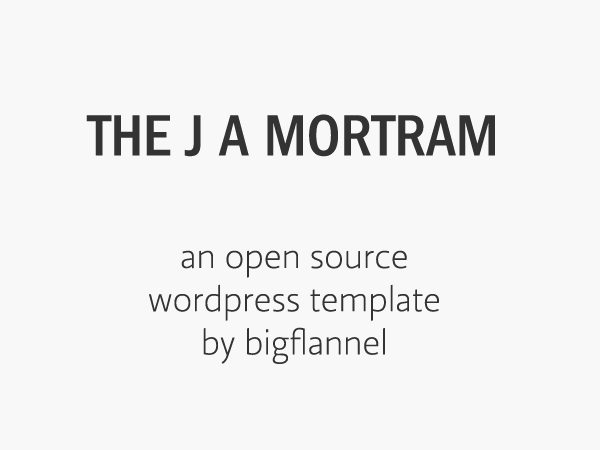
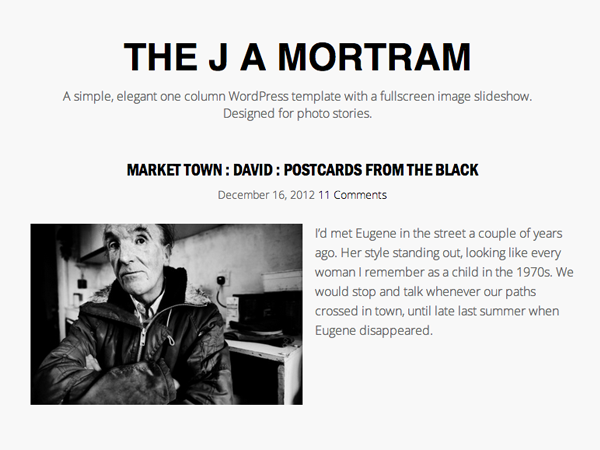
1.03
Added a link to the post date if there is no post title. Added this to
index.php, archive.php and search.php.
Excerpt text is now set in functions.php as 'This post is password
protected.'
Google Font CSS now enqueued in functions.php.
Categories now displayed on single post page.
Amended screenshot.png

Changed region(s): [[0.03, 0.4978, 0.96, 0.9022], [0.09, 0.1867, 0.87, 0.4667], [0.21, 0.0933, 0.81, 0.1556]]

diff --git a/style.css b/style.css
@@ -4,7 +4,7 @@ Theme URI: 		http://bigflannel.com/the-j-a-mortram
 Description: 	A simple, elegant one column template with a fullscreen image slideshow. Designed for photo stories.
 License:		GNU General Public License v2 or later
 License URI:	http://www.gnu.org/licenses/gpl-2.0.html
-Version: 		1.01
+Version: 		1.03
 Author: 		Mike Hartley
 Author URI: 	http://bigflannel.com
 Tags: 			one-column, flexible-width, light, photoblogging
@@ -165,6 +165,9 @@ header h2 {
 /* page / post / error / page / widget */
 .single #content h1, .error404 #content h1, .page #content h1 {
 	color: #333333;
+}
+.categories {
+	text-align: center;
 }
 /* images */
 .alignleft {

diff --git a/search.php b/search.php
@@ -18,9 +18,12 @@
 	<?php while ( have_posts() ) : the_post(); ?>
 		<li class="group">
 			<article id="post-<?php the_ID(); ?>" <?php post_class(); ?>>
-				<h1><a href="<?php esc_url( the_permalink() ); ?>" title="Permalink to <?php the_title(); ?>" rel="bookmark"><?php the_title(); ?></a></h1>
-				<div class="meta post-meta"><time datetime="<?php the_time( 'Y-m-d' ); ?>"><?php the_date(); ?></time> <?php comments_popup_link('Leave a Comment', '1 Comment', '% Comments', '', ''); ?></div>
-				<?php if ( has_post_thumbnail() ) { ?>
+				<?php if (get_the_title() == '') { ?>
+					<div class="meta post-meta"><a href="<?php esc_url( the_permalink() ); ?>" title="Permalink to <?php the_title(); ?>" rel="bookmark"><time datetime="<?php the_time( 'Y-m-d' ); ?>"><?php the_date(); ?></time></a> <?php comments_popup_link('Leave a Comment', '1 Comment', '% Comments', '', ''); ?></div>
+				<?php } else { ?>
+					<h1><a href="<?php esc_url( the_permalink() ); ?>" title="Permalink to <?php the_title(); ?>" rel="bookmark"><?php the_title(); ?></a></h1>
+					<div class="meta post-meta"><time datetime="<?php the_time( 'Y-m-d' ); ?>"><?php the_date(); ?></time> <?php comments_popup_link('Leave a Comment', '1 Comment', '% Comments', '', ''); ?></div>
+				<?php } ?>				<?php if ( has_post_thumbnail() ) { ?>
 					<a href="<?php esc_url( the_permalink() ); ?>" title="Permalink to <?php the_title(); ?>" rel="bookmark"><?php the_post_thumbnail('thumbnail'); ?></a>
 				<?php } ?>
 				<?php the_excerpt(); ?>	

diff --git a/archive.php b/archive.php
@@ -35,8 +35,12 @@
 	<?php while ( have_posts() ) : the_post(); ?>
 		<li class="group">
 			<article id="post-<?php the_ID(); ?>" <?php post_class(); ?>>
-				<h1><a href="<?php esc_url( the_permalink() ); ?>" title="Permalink to <?php the_title(); ?>" rel="bookmark"><?php the_title(); ?></a></h1>
-				<div class="meta post-meta"><time datetime="<?php the_time( 'Y-m-d' ); ?>"><?php the_date(); ?></time> <?php comments_popup_link('Leave a Comment', '1 Comment', '% Comments', '', ''); ?></div>
+				<?php if (get_the_title() == '') { ?>
+					<div class="meta post-meta"><a href="<?php esc_url( the_permalink() ); ?>" title="Permalink to <?php the_title(); ?>" rel="bookmark"><time datetime="<?php the_time( 'Y-m-d' ); ?>"><?php the_date(); ?></time></a> <?php comments_popup_link('Leave a Comment', '1 Comment', '% Comments', '', ''); ?></div>
+				<?php } else { ?>
+					<h1><a href="<?php esc_url( the_permalink() ); ?>" title="Permalink to <?php the_title(); ?>" rel="bookmark"><?php the_title(); ?></a></h1>
+					<div class="meta post-meta"><time datetime="<?php the_time( 'Y-m-d' ); ?>"><?php the_date(); ?></time> <?php comments_popup_link('Leave a Comment', '1 Comment', '% Comments', '', ''); ?></div>
+				<?php } ?>
 				<?php if ( has_post_thumbnail() ) { ?>
 					<a href="<?php esc_url( the_permalink() ); ?>" title="Permalink to <?php the_title(); ?>" rel="bookmark"><?php the_post_thumbnail('thumbnail'); ?></a>
 				<?php } ?>

diff --git a/index.php b/index.php
@@ -21,8 +21,12 @@
 	<?php while ( have_posts() ) : the_post(); ?>
 		<li class="group">
 			<article id="post-<?php the_ID(); ?>" <?php post_class(); ?>>
-				<h1><a href="<?php esc_url( the_permalink() ); ?>" title="Permalink to <?php the_title(); ?>" rel="bookmark"><?php the_title(); ?></a></h1>
-				<div class="meta post-meta"><time datetime="<?php the_time( 'Y-m-d' ); ?>"><?php the_date(); ?></time> <?php comments_popup_link('Leave a Comment', '1 Comment', '% Comments', '', ''); ?></div>
+				<?php if (get_the_title() == '') { ?>
+					<div class="meta post-meta"><a href="<?php esc_url( the_permalink() ); ?>" title="Permalink to <?php the_title(); ?>" rel="bookmark"><time datetime="<?php the_time( 'Y-m-d' ); ?>"><?php the_date(); ?></time></a> <?php comments_popup_link('Leave a Comment', '1 Comment', '% Comments', '', ''); ?></div>
+				<?php } else { ?>
+					<h1><a href="<?php esc_url( the_permalink() ); ?>" title="Permalink to <?php the_title(); ?>" rel="bookmark"><?php the_title(); ?></a></h1>
+					<div class="meta post-meta"><time datetime="<?php the_time( 'Y-m-d' ); ?>"><?php the_date(); ?></time> <?php comments_popup_link('Leave a Comment', '1 Comment', '% Comments', '', ''); ?></div>
+				<?php } ?>
 				<?php if ( has_post_thumbnail() ) { ?>
 					<a href="<?php esc_url( the_permalink() ); ?>" title="Permalink to <?php the_title(); ?>" rel="bookmark"><?php the_post_thumbnail('thumbnail'); ?></a>
 				<?php } ?>

diff --git a/functions.php b/functions.php
@@ -57,6 +57,13 @@
 	add_action( 'wp_enqueue_scripts', 'starkers_script_enqueuer' );
 
 	add_filter( 'body_class', array( 'Starkers_Utilities', 'add_slug_to_body_class' ) );
+	
+	function my_excerpt_protected( $excerpt ) {
+	    if ( post_password_required() )
+	        $excerpt = 'This post is password protected.';
+	    return $excerpt;
+	}
+	add_filter( 'the_excerpt', 'my_excerpt_protected' );
 
 	/* ========================================================================================================================
 	
@@ -81,13 +88,17 @@
 	 */
 
 	function starkers_script_enqueuer() {
+		/* open sans from google */
+		wp_register_script( 'fonts', 'http://fonts.googleapis.com/css?family=Open+Sans:300italic,600italic,300,600' );
+		wp_enqueue_script( 'fonts' );
+	
 		wp_register_script( 'fullscreen', get_template_directory_uri().'/js/jquery.fullscreen-min.js', array( 'jquery' ) );
 		wp_enqueue_script( 'fullscreen' );
 		
 		wp_register_script( 'site', get_template_directory_uri().'/js/site.js', array( 'jquery' ) );
 		wp_enqueue_script( 'site' );
 
-		wp_register_style( 'screen', get_stylesheet_directory_uri().'/style.css', '', '', 'screen' );
+		wp_register_style( 'screen', get_stylesheet_directory_uri().'/style.css' );
         wp_enqueue_style( 'screen' );
 	}
 	

diff --git a/single.php b/single.php
@@ -45,7 +45,15 @@
 					<?php the_content(); ?>
 				</div>
 				<?php wp_link_pages(); ?> 
-				<h3><?php the_tags('More stories about ', ', ', ''); ?></h3>		
+				<h3><?php the_tags('More stories about ', ', ', ''); ?></h3>
+				
+				<nav class="categories meta">
+					<?php 
+						$args = array('title_li' => __( '' ));
+						wp_list_categories($args);
+					?>
+				</nav>
+						
 				<?php comments_template( '', true ); ?>
 			</article>
 		<?php endwhile; ?>

diff --git a/parts/shared/html-header.php b/parts/shared/html-header.php
@@ -16,10 +16,6 @@
 		<script src="<?php echo get_stylesheet_directory_uri(); ?>/js/html5.js"></script>
 		<![endif]-->
 		
-		<!-- fonts -->
-		<!-- open sans from google -->
-		<link href='http://fonts.googleapis.com/css?family=Open+Sans:300italic,600italic,300,600' rel='stylesheet' type='text/css'>
-		
 		<!-- template options -->
 		<?php
 			global $jam_options, $jam_settings;

diff --git a/readme.md b/readme.md
@@ -48,6 +48,16 @@ Set your Google Analytics tracking ID using theme settings and 'Google Analytics
 
 # Changelog
 
+### 1.03
+
+May 21, 2013.
+
+Added a link to the post date if there is no post title. Added this to index.php, archive.php and search.php.
+Excerpt text is now set in functions.php as 'This post is password protected.'
+Google Font CSS now enqueued in functions.php.
+Categories now displayed on single post page.
+Amended screenshot.png
+
 ### 1.02
 
 May 8, 2013.
